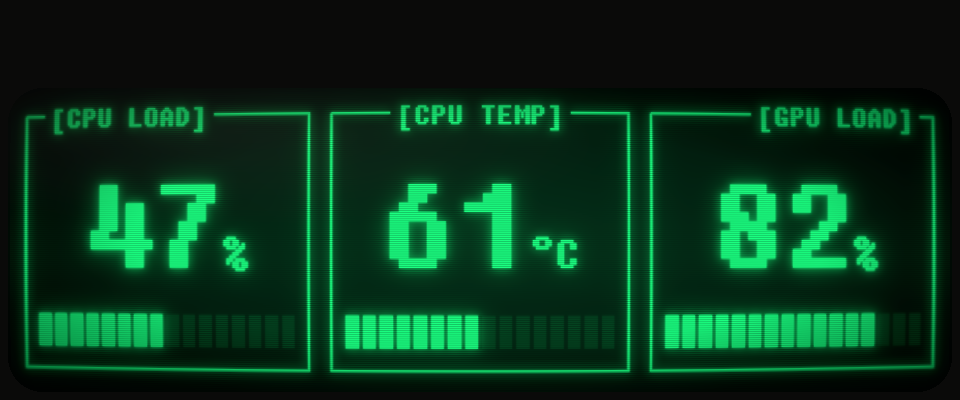
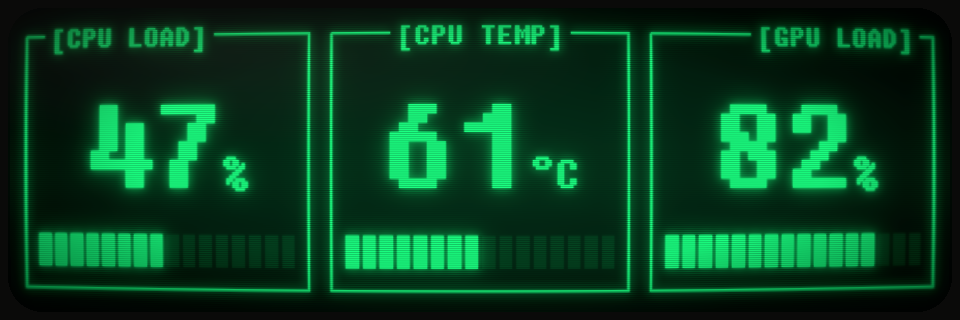
Crop the README picture to the 320 rows the display shows
Claude-Session: https://claude.ai/code/session_01JZLadWwzUGNAztVHPLpVhc

diff --git a/README.md b/README.md
@@ -20,8 +20,8 @@ card as an ordinary monitor, which reports 960 x 400 to Windows and shows
 960 x 320 of it. It finds that screen by its resolution; on a PC without
 one it opens as an ordinary window, so it can be tried out anywhere.
 
-The picture above is a render from `--preview`, not a photograph of the
-display.
+The picture above is a render from `--preview`, cropped to the 320 rows
+the display shows, not a photograph of it.
 
 ## Requirements
 
